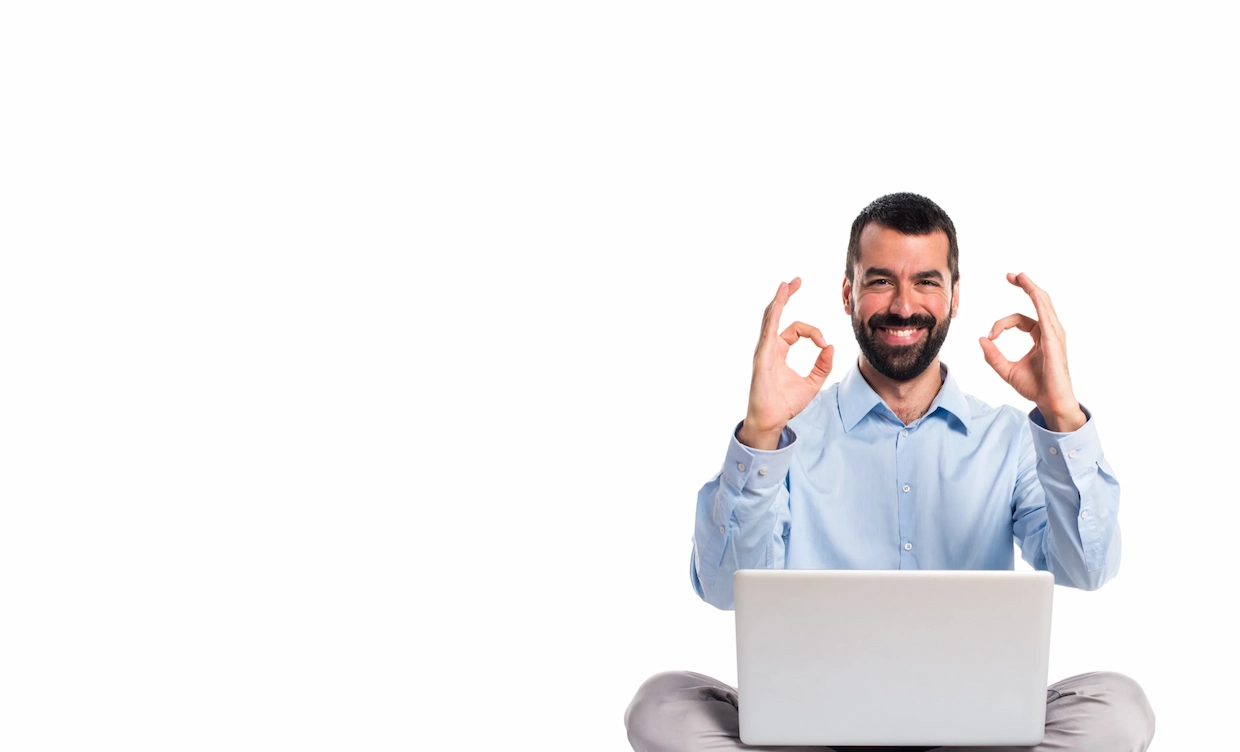
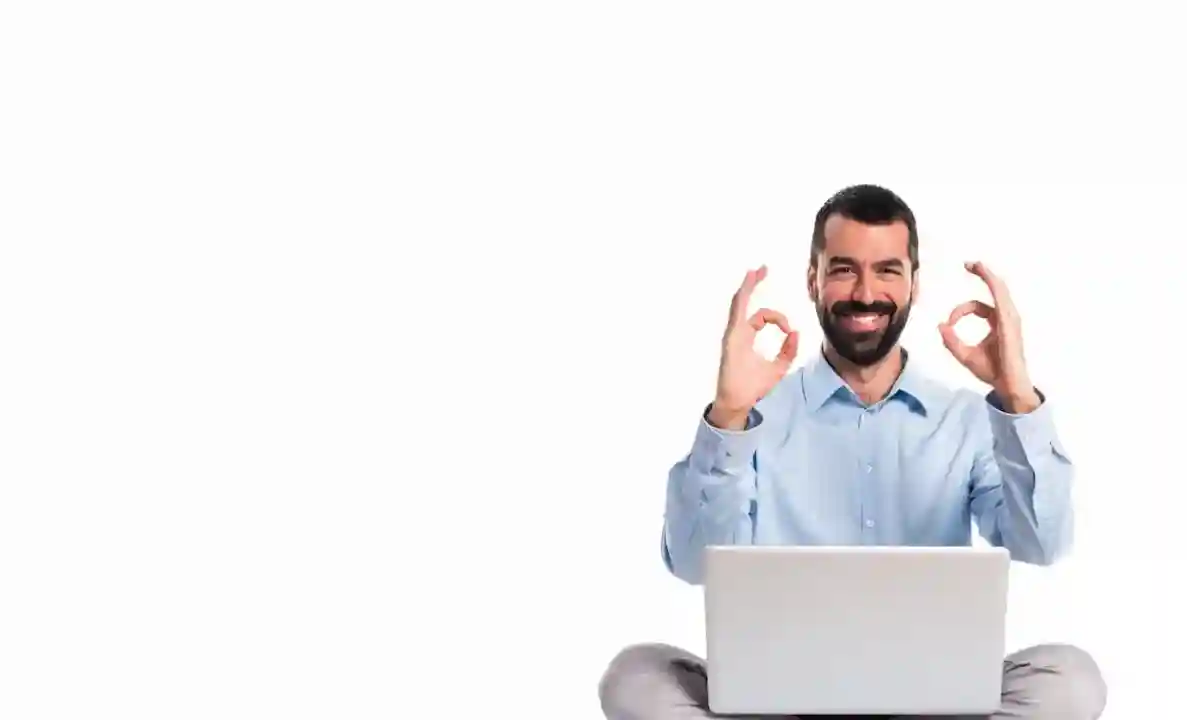
Optmización de mainPage

diff --git a/components/mainPage/mainslider.tsx b/components/mainPage/mainslider.tsx
@@ -11,7 +11,8 @@ interface SliderSection {
   phrase: string;
   smallPhrase: string;
   button: boolean;
-  background: string;
+  backgroundMobile: string;
+  backgroundDesktop: string;
   alt: string;
   title: string;
 }
@@ -22,7 +23,8 @@ const sections: SliderSection[] = [
     smallPhrase:
       "Con nuestras terapias virtuales, transformamos tu vida y te acompañamos en cada paso de tu camino hacia la sanación.",
     button: true,
-    background: "/carruselImages/salud-mental-terapia-virtual.webp",
+    backgroundMobile: "/carruselImages/salud-mental-terapia-virtual.webp",
+    backgroundDesktop: "/carruselImages/Escritorio-salud-mental-terapia-virtual.webp",
     alt: "Estamos contigo en tu proceso de sanación ",
     title: "Terapias virtuales y bienestar emocional ",
   },
@@ -31,7 +33,8 @@ const sections: SliderSection[] = [
     smallPhrase:
       "Nuestras terapias virtuales te permiten cuidar de tu bienestar desde la comodidad de tu hogar cuando más lo necesites.",
     button: true,
-    background: "/carruselImages/centro-psicologico-terapia-online.webp",
+    backgroundMobile: "/carruselImages/centro-psicologico-terapia-online.webp",
+    backgroundDesktop: "/carruselImages/Escritorio-centro-psicologico-terapia-online.webp",
     alt: "Terapias virtuales para ti estés donde estés",
     title: "Tu bienestar a un click de distancia",
   },
@@ -40,7 +43,8 @@ const sections: SliderSection[] = [
     smallPhrase:
       "Transforma tu vida con nuestras terapias diseñadas para ayudarte a sanar y crecer.",
     button: true,
-    background: "/carruselImages/bienestar-mental-terapia-virtual.webp",
+    backgroundMobile: "/carruselImages/bienestar-mental-terapia-virtual.webp",
+    backgroundDesktop: "/carruselImages/Escritorio-bienestar-mental-terapia-virtual.webp",
     alt: "Terapia online centro psicológico contigo voy, te ayudamos a sanar y crecer ",
     title: "Tu bienestar emocional es importante",
   },
@@ -49,7 +53,8 @@ const sections: SliderSection[] = [
     smallPhrase:
       "8 de cada 10 peruanos no reciben la atención mental que necesitan.",
     button: true,
-    background: "/carruselImages/psicologo-en-linea-ayuda-emocional.webp",
+    backgroundMobile: "/carruselImages/psicologo-en-linea-ayuda-emocional.webp",
+    backgroundDesktop: "/carruselImages/psicologo-en-linea-ayuda-emocional.webp",
     alt: "La salud mental es importante, estamos aqui para escucharte",
     title: "No seas parte de la estadística, hablar es el primer paso",
   },
@@ -69,10 +74,8 @@ export default function MainSlider() {
       const onSelect = () => {
         setSelectedIndex(emblaApi.selectedScrollSnap());
       };
-      
+
       emblaApi.on("select", onSelect);
-      
-      // Cleanup
       return () => {
         emblaApi.off("select", onSelect);
       };
@@ -87,41 +90,64 @@ export default function MainSlider() {
 
   return (
     <div className="relative">
-      <div className="embla" ref={emblaRef} role="region" aria-label="Carrusel de servicios">
+      <div
+        className="embla"
+        ref={emblaRef}
+        role="region"
+        aria-label="Carrusel de servicios"
+      >
         <div className="embla__container">
           {sections.map((item, index) => (
-            <div className="relative embla__slide overflow-hidden" key={`slide-${index}`}>
+            <div
+              className="relative embla__slide overflow-hidden"
+              key={`slide-${index}`}
+            >
               <div className="bg-recursive-gradient absolute inset-0 z-0"></div>
               <div className="mix-blend-multiply z-10 absolute inset-0 bg-cover bg-white ">
-                <div className="h-full  w-vw  flex-1 relative ">
-                      <Image
-                        src={item.background}
-                        alt={item.alt}
-                        title={item.title}
-                        fill
-                        className="object-cover object-right lg:object-cover lg:object-right sm:object-left transform translate-x-[15%] lg:translate-x-[0%] "
-                         style={{
-                              WebkitMaskImage: "linear-gradient(to left, rgba(0,0,0,1) 60%, rgba(0,0,0,0) 100%)",
-                              WebkitMaskRepeat: "no-repeat",
-                              WebkitMaskSize: "cover",
-                              maskImage: "linear-gradient(to left, rgba(0,0,0,1) 60%, rgba(0,0,0,0) 100%)",
-                              maskRepeat: "no-repeat",
-                              maskSize: "cover",
-                          }}
-                        priority={index === 0} // Solo la primera imagen tiene prioridad
-                        fetchPriority={index === 0 ? "high" : "auto"}
-                        loading={index === 0 ? "eager" : "lazy"}
-                      />
+                <div className="h-full w-vw flex-1 relative">
+                  <picture>
+                    {/* Imagen para desktop */}
+                    <source
+                      media="(min-width: 431px)"
+                      srcSet={item.backgroundDesktop} 
+                    />
+                    {/* Imagen para móviles */}
+                    <source
+                      media="(max-width: 430px)"
+                      srcSet={item.backgroundMobile} 
+                    />
+
+                    <Image
+                      src={item.backgroundDesktop}
+                      alt={item.alt}
+                      title={item.title}
+                      fill
+                      className="object-cover object-right lg:object-cover lg:object-right sm:object-left transform translate-x-[15%] lg:translate-x-[0%]"
+                      style={{
+                        WebkitMaskImage:
+                          "linear-gradient(to left, rgba(0,0,0,1) 60%, rgba(0,0,0,0) 100%)",
+                        WebkitMaskRepeat: "no-repeat",
+                        WebkitMaskSize: "cover",
+                        maskImage:
+                          "linear-gradient(to left, rgba(0,0,0,1) 60%, rgba(0,0,0,0) 100%)",
+                        maskRepeat: "no-repeat",
+                        maskSize: "cover",
+                      }}
+                      priority={index === 0}
+                      fetchPriority={index === 0 ? "high" : "auto"}
+                      loading={index === 0 ? "eager" : "lazy"}
+                    />
+                  </picture>
                 </div>
               </div>
-              <div className="mx-auto relative max-w-scv18 w-full z-10 
+
+              {/* Texto y botón */}
+              <div
+                className="mx-auto relative max-w-scv18 w-full z-10 
                 h-[450px] sm:h-[500px] lg:h-[570px] 
-                flex items-center bg-left pl-[30px] pt-4">
-
-                {/* Contenedor vertical con proporciones */}
+                flex items-center bg-left pl-[30px] pt-4"
+              >
                 <div className="my-scv6 h-full lg:h-[400px] flex flex-col ">
-
-                  {/* Frase principal */}
                   <div className="flex-[0.35] flex items-center lg:items-end">
                     <div
                       style={{
@@ -135,16 +161,18 @@ export default function MainSlider() {
                     </div>
                   </div>
 
-                  {/* Texto secundario */}
                   <div className="flex-[0.45] flex items-center lg:items-start">
                     <AnimatePresence mode="wait">
                       {selectedIndex === index && (
                         <motion.div
                           key={`motion-${index}`}
                           initial={{ opacity: 0 }}
-                          animate={{ opacity: 1, transition: { duration: 1 } }}
+                          animate={{
+                            opacity: 1,
+                            transition: { duration: 1 },
+                          }}
                           exit={{ opacity: 0 }}
-                          style={{ willChange: 'opacity' }}
+                          style={{ willChange: "opacity" }}
                         >
                           <div
                             style={{
@@ -161,32 +189,32 @@ export default function MainSlider() {
                     </AnimatePresence>
                   </div>
 
-                  {/* Botón */}
-                  <div className="flex-[0.2] mt-5 flex items-start">
-                    <Link href="/ReservarCita">
-                      <Button
-                        style={{
-                          boxShadow:
-                            "4px 5px 16px rgba(0,0,0,0.35), 2px 2px 3px rgba(0,0,0,0.45)",
-                        }}
-                        className="bg-[#634AE2] px-[25px] py-[10px] lg:p-6 
-                        text-white rounded-[30px] hover:bg-purple-700 lg:text-cv6"
-                      >
-                        Reservar Cita
-                      </Button>
-                    </Link>
-                  </div>
-
+                  {item.button && (
+                    <div className="flex-[0.2] mt-5 flex items-start">
+                      <Link href="/ReservarCita">
+                        <Button
+                          style={{
+                            boxShadow:
+                              "4px 5px 16px rgba(0,0,0,0.35), 2px 2px 3px rgba(0,0,0,0.45)",
+                          }}
+                          className="bg-[#634AE2] px-[25px] py-[10px] lg:p-6 
+                          text-white rounded-[30px] hover:bg-purple-700 lg:text-cv6"
+                        >
+                          Reservar Cita
+                        </Button>
+                      </Link>
+                    </div>
+                  )}
                 </div>
               </div>
-
             </div>
           ))}
         </div>
       </div>
 
+      {/* Botones de navegación */}
       <div className="lg:block hidden">
-        <div 
+        <div
           className="absolute right-10 top-1/2 transform -translate-y-1/2 flex flex-col space-y-2"
           role="tablist"
           aria-label="Navegación del carrusel"
@@ -195,7 +223,7 @@ export default function MainSlider() {
             <button
               key={`nav-button-${index}`}
               onClick={() => scrollTo(index)}
-              aria-label={`Ir a la sección ${index + 1}: ${sections[index].phrase}`} // ← Más específico
+              aria-label={`Ir a la sección ${index + 1}: ${sections[index].phrase}`}
               aria-current={selectedIndex === index ? "true" : "false"}
               className={`w-3 h-3 rounded-full transition-all duration-300 ${
                 selectedIndex === index ? "bg-[#634AE2]" : "bg-white"

diff --git a/components/mainPage/onlinePsychology.tsx b/components/mainPage/onlinePsychology.tsx
@@ -283,12 +283,15 @@ export default function ChooseUs() {
                     <div className="embla__slide" key={index}>
                       <div className="relative h-[800px] max-w-[500px] rounded-l-full mask-all-fade">
                         <Image
-                          src={item.background}
-                          alt={item.title}
-                          fill
-                          sizes="500px"
-                          className="object-cover rounded-l-full"
-                        />
+                            src={item.background}
+                            alt={item.title}
+                            fill
+                            sizes="(max-width: 768px) 100vw,
+                                  (max-width: 1200px) 50vw,
+                                  500px"
+                            className="object-cover rounded-l-full"
+                          />
+
                       </div>
                     </div>
                   ))}

diff --git a/next.config.ts b/next.config.ts
@@ -1,5 +1,12 @@
 import type {NextConfig} from "next";
 
+import bundleAnalyzer from "@next/bundle-analyzer";
+
+const withBundleAnalyzer = bundleAnalyzer({
+  enabled: process.env.ANALYZE === "true",
+});
+
+
 const nextConfig: NextConfig = {
  
   images: {
@@ -12,7 +19,8 @@ const nextConfig: NextConfig = {
     optimizePackageImports: ['lucide-react', '@heroui/react'],
   },
 
-  async generateBuildId() {
+
+  async generateBuildId() { 
  
     return `blog-system-${Date.now()}`;
   },
@@ -27,4 +35,5 @@ const nextConfig: NextConfig = {
   },
 };
 
-export default nextConfig;
+
+export default withBundleAnalyzer(nextConfig);

diff --git a/components/mainPage/chooseUs.tsx b/components/mainPage/chooseUs.tsx
@@ -150,7 +150,10 @@ export default function ChooseUs() {
               alt={"atención psicológica online que se adapta ti"}
               title="Atención Psicológica Online para ti"
               fill
-              className=""
+              className="objet-cover"
+              priority 
+              sizes="(max-width: 768px) 100vw, 50vw"
+              
             />
           </div>
         </div>

diff --git a/components/blogCrear/blogUsuarioCrear.tsx b/components/blogCrear/blogUsuarioCrear.tsx
@@ -1,4 +1,4 @@
-"use client";
+                                                     "use client";
 
 import { Autocomplete, AutocompleteItem, Button, Input } from "@heroui/react";
 import React, { useCallback, useEffect, useState } from "react";
